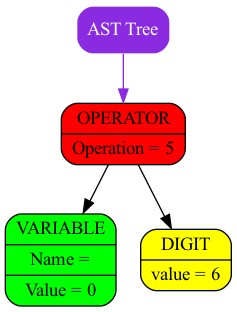
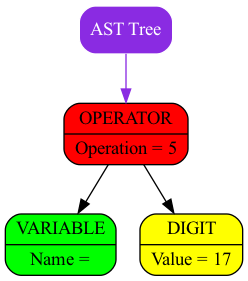
Implement some functions for creating nodes in parser

Changed region(s): [[0.0, 0.0, 1.0, 0.9964]]

diff --git a/frontend/src/AST.cpp b/frontend/src/AST.cpp
@@ -13,6 +13,39 @@ namespace paracl
 
 //======================================================================================//
 
+Digit* AST::MakeDigit(int value)
+{
+    auto node = std::make_unique<Digit>(value);
+
+    smart_nodes.push_back(std::move(node));
+
+    return static_cast<Digit*>(smart_nodes.back().get());
+}
+
+//======================================================================================//
+
+Variable* AST::MakeVar(std::string name)
+{
+    auto node = std::make_unique<Variable>(name);
+
+    smart_nodes.push_back(std::move(node));
+
+    return static_cast<Variable*>(smart_nodes.back().get());
+}
+
+//======================================================================================//
+
+BinOp* AST::MakeBinOp(Operators op_type, INode* left, INode* right)
+{
+    auto node = std::make_unique<BinOp>(op_type, left, right);
+
+    smart_nodes.push_back(std::move(node));
+
+    return static_cast<BinOp*>(smart_nodes.back().get());
+}
+
+//======================================================================================//
+
 void AST::Dump() const
 {
     #ifdef DUMP

diff --git a/frontend/inc/AST.hpp b/frontend/inc/AST.hpp
@@ -16,25 +16,31 @@ class AST final
 {
     public:
 
-        AST() = default;
+        AST()
+        {
+            smart_nodes.reserve(20);
+        }
 
+        
         std::unique_ptr<paracl::INode> root_ = nullptr;
 
         std::vector<std::unique_ptr<paracl::INode>> smart_nodes{};
 
-        void Dump() const;
+        
+        void        Dump() const;
 
-        // void MakeBinOp(Operators op_type);
+        Digit*      MakeDigit(int value);
+
+        Variable*   MakeVar(std::string name);
+
+        
+        BinOp*      MakeBinOp(Operators op_type, INode* left = nullptr, INode* right = nullptr);
 
         ~AST() = default;
 };
 
 //======================================================================================//
 
-// void AST::MakeBinOp(Operators op_type)
-// {
-
-// }
 
 //======================================================================================//
 

diff --git a/frontend/inc/Node.hpp b/frontend/inc/Node.hpp
@@ -15,8 +15,8 @@ class Variable final : public INode
 {
     public:
 
-        Variable(std::string name = "", int value = 0) 
-            : INode(Type_t::Variable), name_{name}, value_{value} {}
+        Variable(std::string name = "") 
+            : INode(Type_t::Variable), name_{name} {}
 
         void Dump(std::ofstream& graph_file) const override;
 
@@ -28,8 +28,6 @@ class Variable final : public INode
     private:
 
         std::string name_ = "";
-
-        int value_ = 0;
 };
 
 //======================================================================================//
@@ -66,12 +64,6 @@ class BinOp final : public INode
 
         ~BinOp()
         {
-            // if (left_)
-            //     delete left_;
-
-            // if (right_)
-            //     delete right_;
-                
             std::cout << "Deleting operator" << std::endl;
         }
 

diff --git a/frontend/src/Node.cpp b/frontend/src/Node.cpp
@@ -13,7 +13,7 @@ void Digit::Dump(std::ofstream& graph_file) const
     
         graph_file << "   \"" << this << "\"[shape = Mrecord, color = \"black\", style = filled, fontcolor = \"black\", fillcolor = \"yellow\",";
         
-        graph_file << "   label = \" {DIGIT | value = " << value_ << "}\"];\n";
+        graph_file << "   label = \" {DIGIT | Value = " << value_ << "}\"];\n";
     
     #else
 
@@ -30,7 +30,7 @@ void Variable::Dump(std::ofstream& graph_file) const
     
         graph_file << "   \"" << this << "\"[shape = Mrecord, color = \"black\", style = filled, fontcolor = \"black\", fillcolor = \"green\",";
         
-        graph_file << "   label = \" {VARIABLE | Name = " << name_ << "| Value = " << value_ << "}\"];\n";
+        graph_file << "   label = \" {VARIABLE | Name = " << name_ << "}\"];\n";
     
     #else
 

diff --git a/frontend/inc/driver.hpp b/frontend/inc/driver.hpp
@@ -43,12 +43,11 @@ class Driver
             
             bool res = parser.parse();
 
-            // if (tree.smart_nodes.size())
-            //     tree.root_ = std::move(*tree.smart_nodes.begin());
+            if (tree.smart_nodes.size())
+                tree.root_ = std::move(*std::prev(tree.smart_nodes.end()));
 
             return !res;
         }
-
 };
 
 } // end of yy namespace
